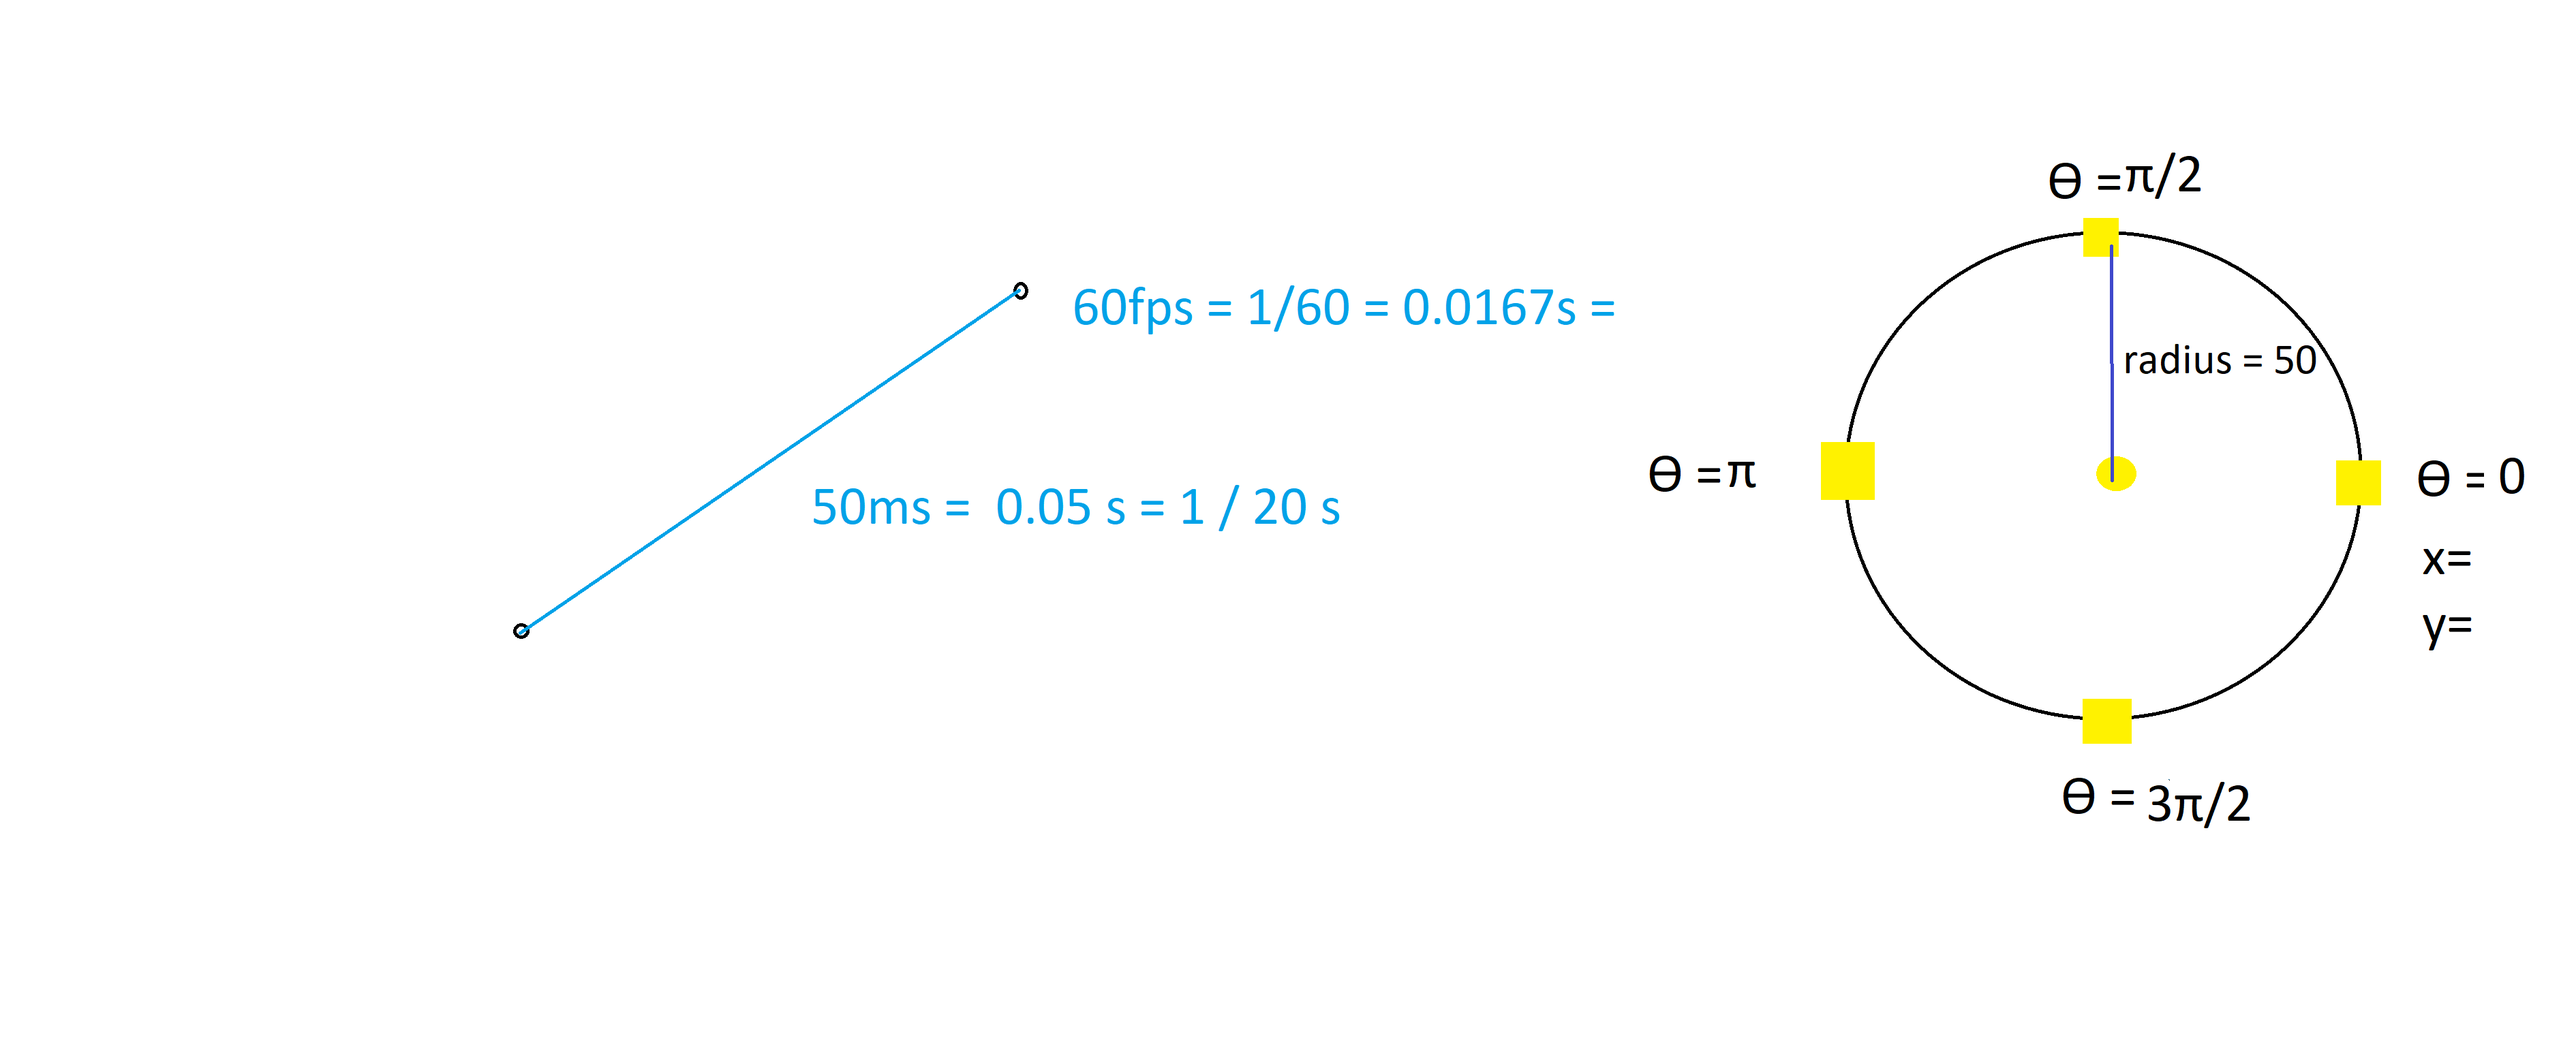
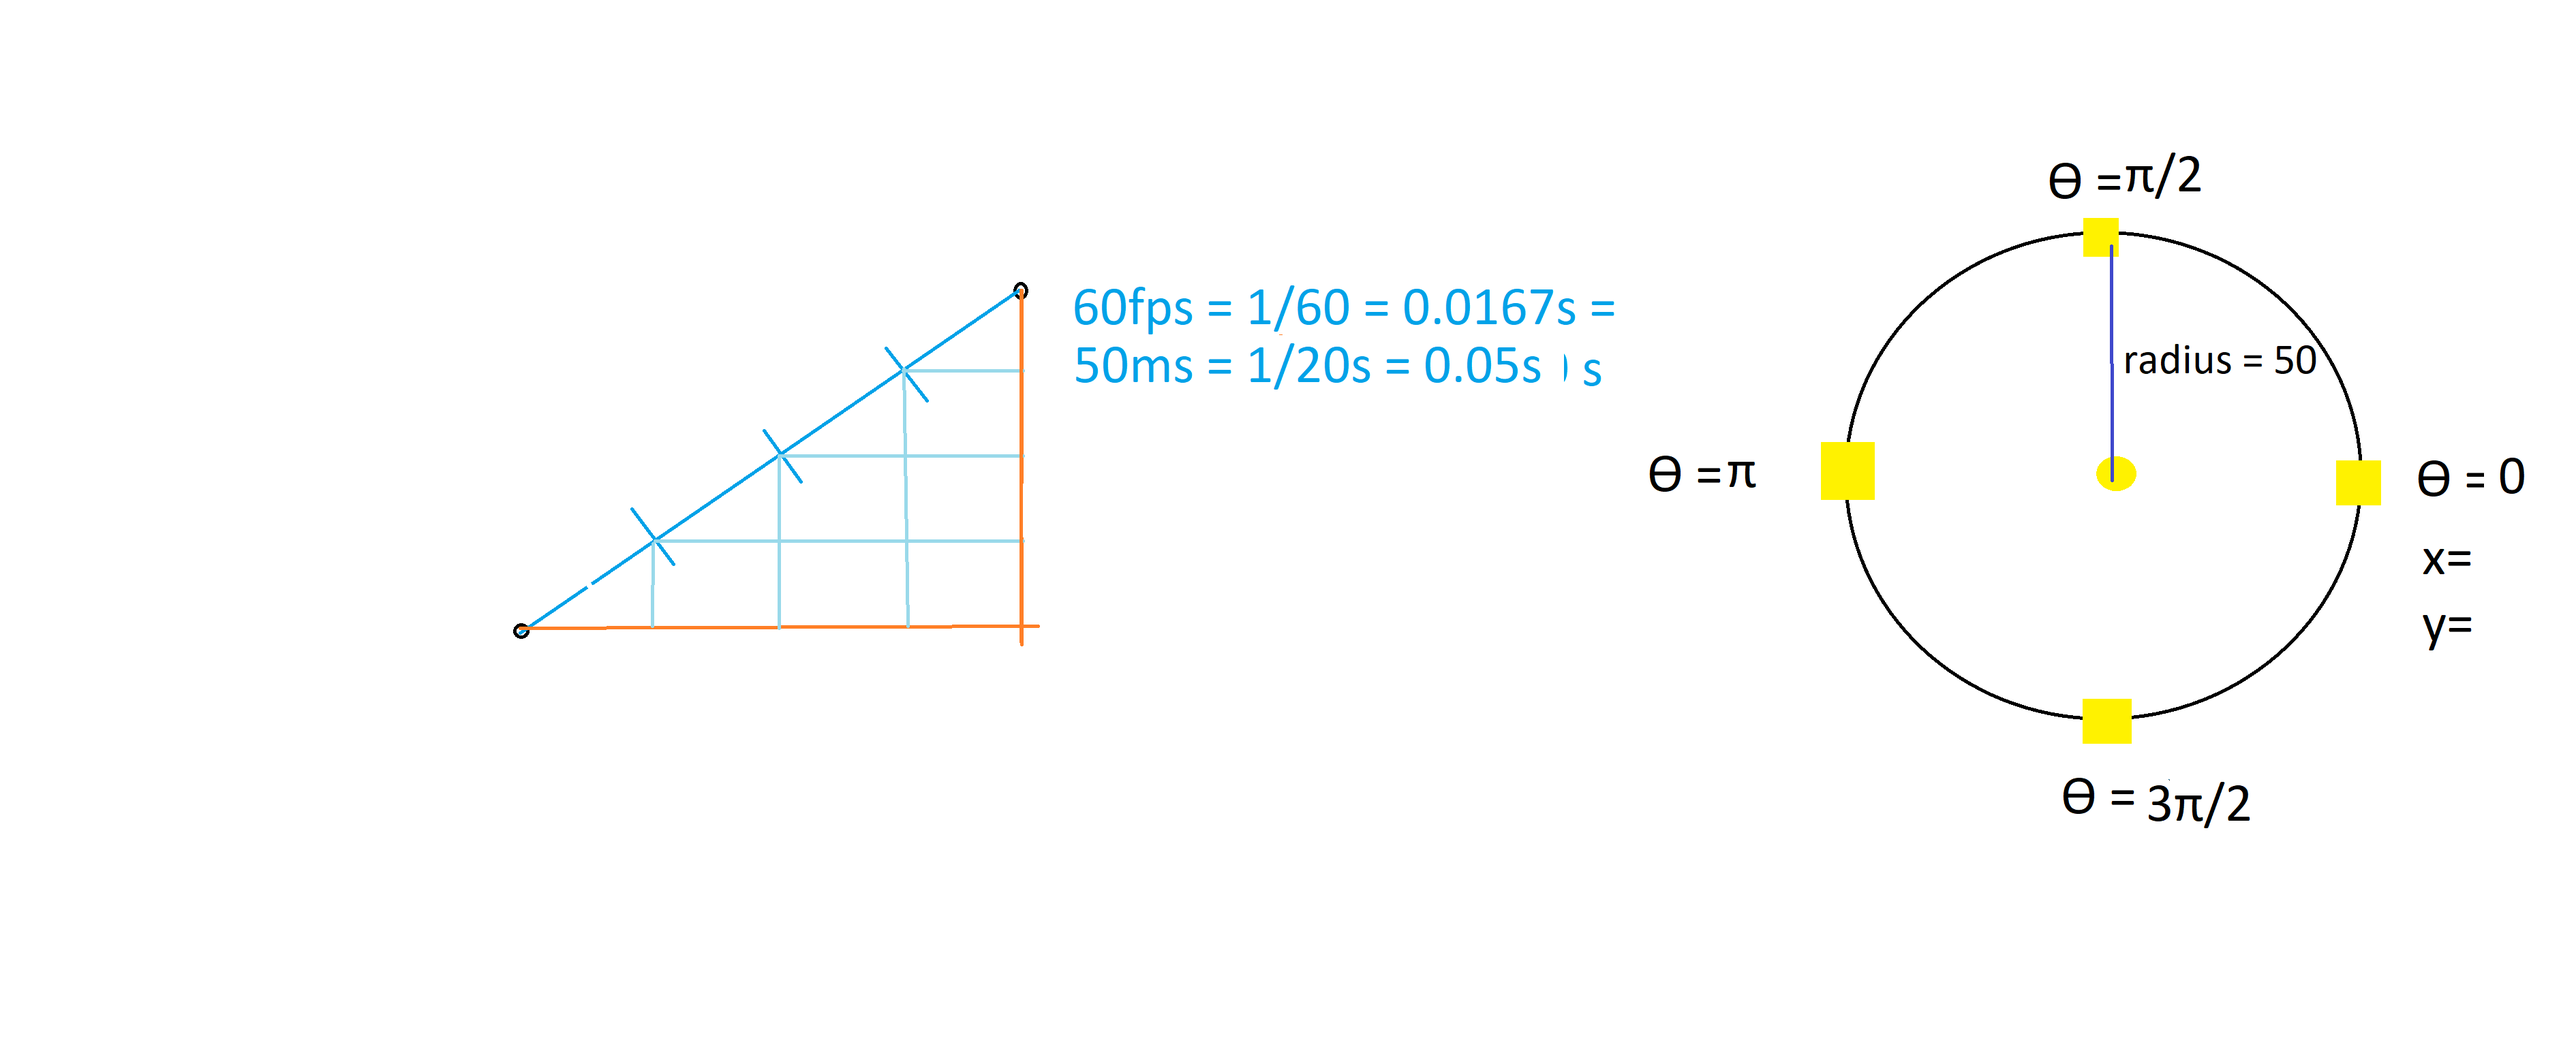
distance maths wrong

diff --git a/main.cs b/main.cs
@@ -12,38 +12,50 @@ using System.Windows.Forms;
 
 namespace blobs
 {
+    public class vertex
+    {
+        public PointF begin = new PointF( 0.0f , 0.0f );
+        public PointF end = new PointF( 0.0f , 0.0f );
+        public PointF delta = new PointF( 0.0f , 0.0f );
+        public PointF transition = new PointF( 0.0f , 0.0f );
+
+        public bool expanding  = true;
+
+        public vertex() { }
+
+        public vertex( PointF in_being , PointF in_end , PointF in_delta )
+        {
+            begin = in_being;
+            end   = in_end;
+            delta = in_delta;
+        }
+    }
+
     public class blob
     {
-        private int          quadrant_amount = 20;
-        
-        private List<PointF> vertices_start;
-        //public  List<PointF> Vertices_Start { get; set; }
-        
-        private List<PointF> vertices_end;
+        private int          quadrant_amount = 10;
 
-        private List<PointF> vertices_slope;
+        private List<vertex> vertices = new List<vertex>();
+        //private List<PointF> vertices_start;
+        //private List<PointF> vertices_end;
+        //private List<PointF> vertices_delta;
 
-        public  float        radius { get; }
+        public float radius { get; }
 
         private Point        center;
-        private float        tension = 1.0f;
+        private float        tension = 0.0f;
         private Pen          pen_blue;
-        private float        pen_width = 1.0f;
+        private float        pen_width = 3.0f;
         private Random       random;
-        private float        variance = 40.0f;
-
+        //private float        variance = 40.0f;
+        private int          variance = 40;
         private float        slope_divisions = 60;
 
-        public blob( float in_radius )//, Point in_center )
+        public blob( float in_radius )
         {
-            //center   = in_center;
             radius   = in_radius;
             random   = new Random();
             pen_blue = new Pen( Color.Blue , pen_width );
-
-            vertices_start = new List<PointF>();
-            vertices_end   = new List<PointF>();
-            vertices_slope = new List<PointF>();
         }
 
         public void set_center( Point in_center ) { center = in_center; }
@@ -54,54 +66,82 @@ namespace blobs
 
             float theta = pi_double / quadrant_amount; // quadrant angle
 
-            for ( float circumference_point = 0; circumference_point <= pi_double + theta; circumference_point += theta )
+            // for each quadrant of a circle
+            for ( float circumference_point = 0 ; circumference_point <= pi_double + theta ; circumference_point += theta )
+            //for ( float circumference_point = 0 ; circumference_point < pi_double + theta ; circumference_point += theta )
             {
-                float x = center.X + ( radius * (float)Math.Cos(circumference_point) );
-                float y = center.Y + ( radius * (float)Math.Sin(circumference_point) );
+                // generate circle points
+                float start_x = center.X + ( radius * (float)Math.Cos(circumference_point) );
+                float start_y = center.Y + ( radius * (float)Math.Sin(circumference_point) );
 
-                PointF new_vertex_start = new PointF();
-                PointF new_vertex_end = new PointF();
-                
-                new_vertex_start.X = x += ( float )random.NextDouble() * variance;
-                new_vertex_start.Y = y += ( float )random.NextDouble() * variance;
+                // add random distance to begin and end vertices
+                vertex new_vertex = new vertex();
 
-                new_vertex_end.X = x += (float)random.NextDouble() * variance;
-                new_vertex_end.Y = y += (float)random.NextDouble() * variance;
+                new_vertex.begin.X = start_x;// += ( float )random.Next( -variance , variance );
+                new_vertex.begin.Y = start_y;// += ( float )random.Next( -variance , variance );
 
-                vertices_start.Add(new_vertex_start);
-                vertices_end.Add(new_vertex_end);
+                float radius_random = radius + 50;// ( float )random.Next( -variance , variance );
+                new_vertex.end.X = center.X + ( radius_random * (float)Math.Cos(circumference_point) );
+                new_vertex.end.Y = center.Y + ( radius_random * (float)Math.Sin(circumference_point) );
+
+                // movement vertex starts at begin vertex
+                new_vertex.transition = new_vertex.begin;
+
+                vertices.Add( new_vertex );
             }
 
-            // last vertex = first vertex
-            vertices_start[ vertices_start.Count - 1 ] = vertices_start[ 0 ];
-            vertices_end  [ vertices_end.Count - 1   ] = vertices_end[ 0 ];
+            // last vertex = first vertex to ensure a closed loop
+            //vertices[ vertices.Count - 1 ] = vertices[ 0 ];
 
-            for ( int index = 0 ; index < vertices_start.Count ; index++ )
+            // calculate the vertex delta begin and end X,Y 
+            for ( int index = 0 ; index < vertices.Count ; index++ )
             {
                 PointF new_point = new PointF();
-                
-                new_point.X = ( vertices_start[ index ].X - vertices_end[ index ].X ) / slope_divisions;
-                new_point.Y = ( vertices_start[ index ].Y - vertices_end[ index ].Y ) / slope_divisions;
 
-                vertices_slope.Add( new_point );
+                //new_point.X = ( vertices[ index ].begin.X - vertices[ index ].end.X ) / slope_divisions;
+                //new_point.Y = ( vertices[ index ].begin.Y - vertices[ index ].end.Y ) / slope_divisions;
+                new_point.Y = ( vertices[ index ].end.Y - vertices[ index ].begin.Y ) / slope_divisions;
+                new_point.X = ( vertices[ index ].end.X - vertices[ index ].begin.X ) / slope_divisions;
+
+                vertices[ index ].delta = new_point;
             }
         }
 
-        public void paint( object sender, PaintEventArgs event_paint )
+        public void paint( object sender , PaintEventArgs event_paint )
         {
-            event_paint.Graphics.DrawCurve( pen_blue , vertices_start.ToArray() , tension );
+            // copy movement vertex to a new list of PointF's for the DrawCurve function
+            List<PointF> transition_copy = new List<PointF>();
+            // vertices.Select( copy => new PointF(){ copy.transition } ).ToList();
+
+            for ( int index = 0 ; index < vertices.Count() ; index++ )
+            {
+                transition_copy.Add( vertices[ index ].transition );
+                //transition_copy.Add( vertices[ index ].begin );
+            }
+
+            event_paint.Graphics.DrawCurve( pen_blue , transition_copy.ToArray() , tension );
         }
 
         public void update()
         {
-            for ( int index = 0 ; index < vertices_start.Count ; index++ )
+
+            // update transition vertices 
+            for ( int index = 0 ; index < vertices.Count() ; index++ )
             {
-                PointF new_point = vertices_start[index];
+                // to add += , >= , <= operators to PointF
+                // modify transition vertex with delta
+                vertices[ index ].transition.X += vertices[ index ].delta.X;
+                vertices[ index ].transition.Y += vertices[ index ].delta.Y;
 
-                new_point.X += vertices_slope[ index ].X;
-                new_point.Y += vertices_slope[ index ].Y;
-
-                vertices_start[ index ] = new_point;
+                // if adding delta is past end or start then invert delta
+                if ( ( vertices[ index ].transition.X += vertices[ index ].delta.X ) <= vertices[ index ].begin.X ||
+                     ( vertices[ index ].transition.Y += vertices[ index ].delta.Y ) <= vertices[ index ].begin.Y ||
+                     ( vertices[ index ].transition.X += vertices[ index ].delta.X ) >= vertices[ index ].end.X ||
+                     ( vertices[ index ].transition.Y += vertices[ index ].delta.Y ) >= vertices[ index ].end.Y )
+                {
+                    vertices[ index ].delta.X *= -1;
+                    vertices[ index ].delta.Y *= -1;
+                }
             }
         }
 
@@ -129,41 +169,35 @@ namespace blobs
             DoubleBuffered = true;
             // event handlers
             this.KeyDown += form_KeyDown;
-            this.Paint += form_Paint;
+            //this.Paint += form_Paint;
             this.Load += form_Load;
             //this.Resize += form_Resize;
             // timer
             timer_1 = new Timer();
-            timer_1.Interval = 16;
+            timer_1.Interval = 16; // milli seconds
             timer_1.Tick += timer_1_tick;
             timer_1.Start();
             // blob
-            
-            //form_center.X = ( ClientSize.Width / 2 ) - ( int )blob_radius / 2;
-            //form_center.Y = ( ClientSize.Height / 2 ) - ( int )blob_radius / 2;
-
             blob1 = new blob( blob_radius );//, form_center );
             this.Paint += new System.Windows.Forms.PaintEventHandler( this.blob1.paint );
 
             // Gets a reference to the current BufferedGraphicsContext
-            graphics_buffered_context = BufferedGraphicsManager.Current;
+            //graphics_buffered_context = BufferedGraphicsManager.Current;
             // Creates a BufferedGraphics instance associated with Form1, and with
             // dimensions the same size as the drawing surface of Form1.
-            graphics_buffer = graphics_buffered_context.Allocate( this.CreateGraphics() , this.DisplayRectangle );
+            //graphics_buffer = graphics_buffered_context.Allocate( this.CreateGraphics() , this.DisplayRectangle );
         }
 
-
-        private void timer_1_tick(object sender, EventArgs e)
+        private void timer_1_tick( object sender , EventArgs e )
         {
             blob1.update();
+
+            this.Invalidate();
         }
 
-        private void form_Paint(object sender, PaintEventArgs e)
-        {
-           
-        }
+        //private void form_Paint(object sender, PaintEventArgs e)
 
-        public void form_Load(object sender, EventArgs event_args)
+        public void form_Load( object sender , EventArgs event_args )
         {
             form_center.X = ( ClientSize.Width / 2 ) - ( int )blob1.radius / 2;
             form_center.Y = ( ClientSize.Height / 2 ) - ( int )blob1.radius / 2;
@@ -172,9 +206,9 @@ namespace blobs
             blob1.initialise();
         }
 
-        private void form_KeyDown( object sender, KeyEventArgs event_arguments ) 
+        private void form_KeyDown( object sender , KeyEventArgs event_arguments )
         {
-            if( event_arguments.KeyCode == Keys.Escape )
+            if ( event_arguments.KeyCode == Keys.Escape )
             {
                 Application.Exit();
             }
@@ -185,6 +219,4 @@ namespace blobs
             Application.Run( new form() );
         }
     }
-
-    //InitializeComponent();
-}
+} // end namespace
